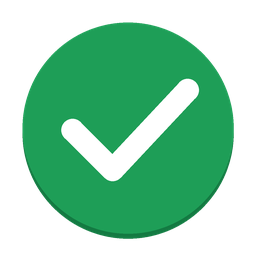
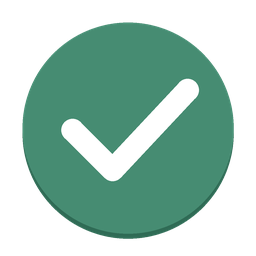
refactor: colores excel

diff --git a/src/backend/modules/inspecciones-epp/excel/hojas/planesAccion.service.js b/src/backend/modules/inspecciones-epp/excel/hojas/planesAccion.service.js
@@ -10,6 +10,11 @@ const {
   aplicarColorPorValor,
 } = require("../../../../shared/services/excel.service");
 
+const {
+  COLORES: PALETA,
+  aArgb,
+} = require("../../../../shared/utils/paletaExcel.util");
+
 const { COLORES_EVALUACION } = require("./estilos.service");
 
 /**
@@ -377,13 +382,13 @@ function construirHojaPlanesAccion(workbook, planes) {
               type: "pattern",
               pattern: "solid",
               bgColor: {
-                argb: "FFFAD4D4",
+                argb: aArgb(PALETA.rojoSuave),
               },
             },
             font: {
               bold: true,
               color: {
-                argb: "FFB42318",
+                argb: aArgb(PALETA.rojoTexto),
               },
             },
           },
@@ -398,13 +403,13 @@ function construirHojaPlanesAccion(workbook, planes) {
               type: "pattern",
               pattern: "solid",
               bgColor: {
-                argb: "FFFAD4D4",
+                argb: aArgb(PALETA.rojoSuave),
               },
             },
             font: {
               bold: true,
               color: {
-                argb: "FFB42318",
+                argb: aArgb(PALETA.rojoTexto),
               },
             },
           },
@@ -423,13 +428,13 @@ function construirHojaPlanesAccion(workbook, planes) {
               type: "pattern",
               pattern: "solid",
               bgColor: {
-                argb: "FFFFF0C2",
+                argb: aArgb(PALETA.ambarSuave),
               },
             },
             font: {
               bold: true,
               color: {
-                argb: "FF9A6700",
+                argb: aArgb(PALETA.ambarTexto),
               },
             },
           },
@@ -448,13 +453,13 @@ function construirHojaPlanesAccion(workbook, planes) {
               type: "pattern",
               pattern: "solid",
               bgColor: {
-                argb: "FFD9F2E3",
+                argb: aArgb(PALETA.verdeSuave),
               },
             },
             font: {
               bold: true,
               color: {
-                argb: "FF137A42",
+                argb: aArgb(PALETA.verdeOscuro),
               },
             },
           },
@@ -473,13 +478,13 @@ function construirHojaPlanesAccion(workbook, planes) {
               type: "pattern",
               pattern: "solid",
               bgColor: {
-                argb: "FFD9F2E3",
+                argb: aArgb(PALETA.verdeSuave),
               },
             },
             font: {
               bold: true,
               color: {
-                argb: "FF137A42",
+                argb: aArgb(PALETA.verdeOscuro),
               },
             },
           },
@@ -508,13 +513,13 @@ function construirHojaPlanesAccion(workbook, planes) {
               type: "pattern",
               pattern: "solid",
               bgColor: {
-                argb: "FFD9F2E3",
+                argb: aArgb(PALETA.verdeSuave),
               },
             },
             font: {
               bold: true,
               color: {
-                argb: "FF137A42",
+                argb: aArgb(PALETA.verdeOscuro),
               },
             },
           },
@@ -533,13 +538,13 @@ function construirHojaPlanesAccion(workbook, planes) {
               type: "pattern",
               pattern: "solid",
               bgColor: {
-                argb: "FFFFF0C2",
+                argb: aArgb(PALETA.ambarSuave),
               },
             },
             font: {
               bold: true,
               color: {
-                argb: "FF9A6700",
+                argb: aArgb(PALETA.ambarTexto),
               },
             },
           },

diff --git a/src/backend/modules/inspecciones-epp/excel/hojas/estilos.service.js b/src/backend/modules/inspecciones-epp/excel/hojas/estilos.service.js
@@ -1,39 +1,49 @@
+const {
+  COLORES: PALETA,
+  aArgb,
+} = require("../../../../shared/utils/paletaExcel.util");
+
+/**
+ * Colores de las celdas de resultado y de evaluación del EPP. Usan la paleta
+ * del tablero SST para que ambos seguimientos compartan la misma identidad.
+ */
+
 const COLORES_RESULTADO = {
   "CON NOVEDAD": {
-    fondo: "FFFAD4D4",
-    texto: "FFB42318",
+    fondo: aArgb(PALETA.rojoSuave),
+    texto: aArgb(PALETA.rojoTexto),
   },
 
   "SIN NOVEDAD": {
-    fondo: "FFD9F2E3",
-    texto: "FF137A42",
+    fondo: aArgb(PALETA.verdeSuave),
+    texto: aArgb(PALETA.verdeOscuro),
   },
 
   "SIN EVALUACIÓN": {
-    fondo: "FFEDEFF2",
-    texto: "FF6B7280",
+    fondo: aArgb(PALETA.grisSuave),
+    texto: aArgb(PALETA.textoSecundario),
   },
 };
 
 const COLORES_EVALUACION = {
   B: {
-    fondo: "FFD9F2E3",
-    texto: "FF137A42",
+    fondo: aArgb(PALETA.verdeSuave),
+    texto: aArgb(PALETA.verdeOscuro),
   },
 
   R: {
-    fondo: "FFFFF0C2",
-    texto: "FF9A6700",
+    fondo: aArgb(PALETA.ambarSuave),
+    texto: aArgb(PALETA.ambarTexto),
   },
 
   M: {
-    fondo: "FFFAD4D4",
-    texto: "FFB42318",
+    fondo: aArgb(PALETA.rojoSuave),
+    texto: aArgb(PALETA.rojoTexto),
   },
 
   NA: {
-    fondo: "FFEDEFF2",
-    texto: "FF6B7280",
+    fondo: aArgb(PALETA.grisSuave),
+    texto: aArgb(PALETA.textoSecundario),
   },
 };
 

diff --git a/src/backend/shared/utils/paletaExcel.util.js b/src/backend/shared/utils/paletaExcel.util.js
@@ -7,9 +7,9 @@
  */
 
 const COLORES = {
-  verde: "1E9E57",
-  verdeOscuro: "137A42",
-  verdeSuave: "D9F2E3",
+  verde: "468C72",
+  verdeOscuro: "2F6B55",
+  verdeSuave: "E2F0E9",
   blanco: "FFFFFF",
   texto: "1F2937",
   textoSecundario: "6B7280",
@@ -22,8 +22,8 @@ const COLORES = {
   rojo: "D64545",
   rojoTexto: "B42318",
   rojoSuave: "FAD4D4",
-  verdeAgua: "2E9E5B",
-  serieBueno: "1E9E57",
+  verdeAgua: "5FA386",
+  serieBueno: "5FA386",
   serieRegular: "F2B33D",
   serieMalo: "E0533D",
   serieNoCumple: "8B1E1E",

diff --git a/tests/unit/services/excelEppInicio.service.test.js b/tests/unit/services/excelEppInicio.service.test.js
@@ -50,7 +50,8 @@ function formula(hoja, referencia) {
 test("la paleta del tablero SST es la misma que usa el tablero EPP", () => {
   assert.equal(estilosSst.COLORES, COLORES);
   assert.equal(estilosSst.FUENTES, FUENTES);
-  assert.equal(aArgb(COLORES.verde), "FF1E9E57");
+  assert.equal(aArgb("1E9E57"), "FF1E9E57");
+  assert.equal(aArgb(COLORES.verde), `FF${COLORES.verde}`);
 });
 
 test("Inicio es la primera pestaña y usa la cuadrícula del tablero SST", () => {

diff --git a/src/backend/modules/inspecciones-epp/excel/hojas/general.service.js b/src/backend/modules/inspecciones-epp/excel/hojas/general.service.js
@@ -20,8 +20,8 @@ const COLORES = {
   grisClaro: "FFF2F4F7",
   grisTexto: "FF667085",
 
-  verdeFondo: "FFEAF7EE",
-  verdeTexto: "FF16794B",
+  verdeFondo: aArgb(PALETA.verdeSuave),
+  verdeTexto: aArgb(PALETA.verdeOscuro),
 
   amarilloFondo: "FFFFF4E5",
   amarilloTexto: "FFB54708",
